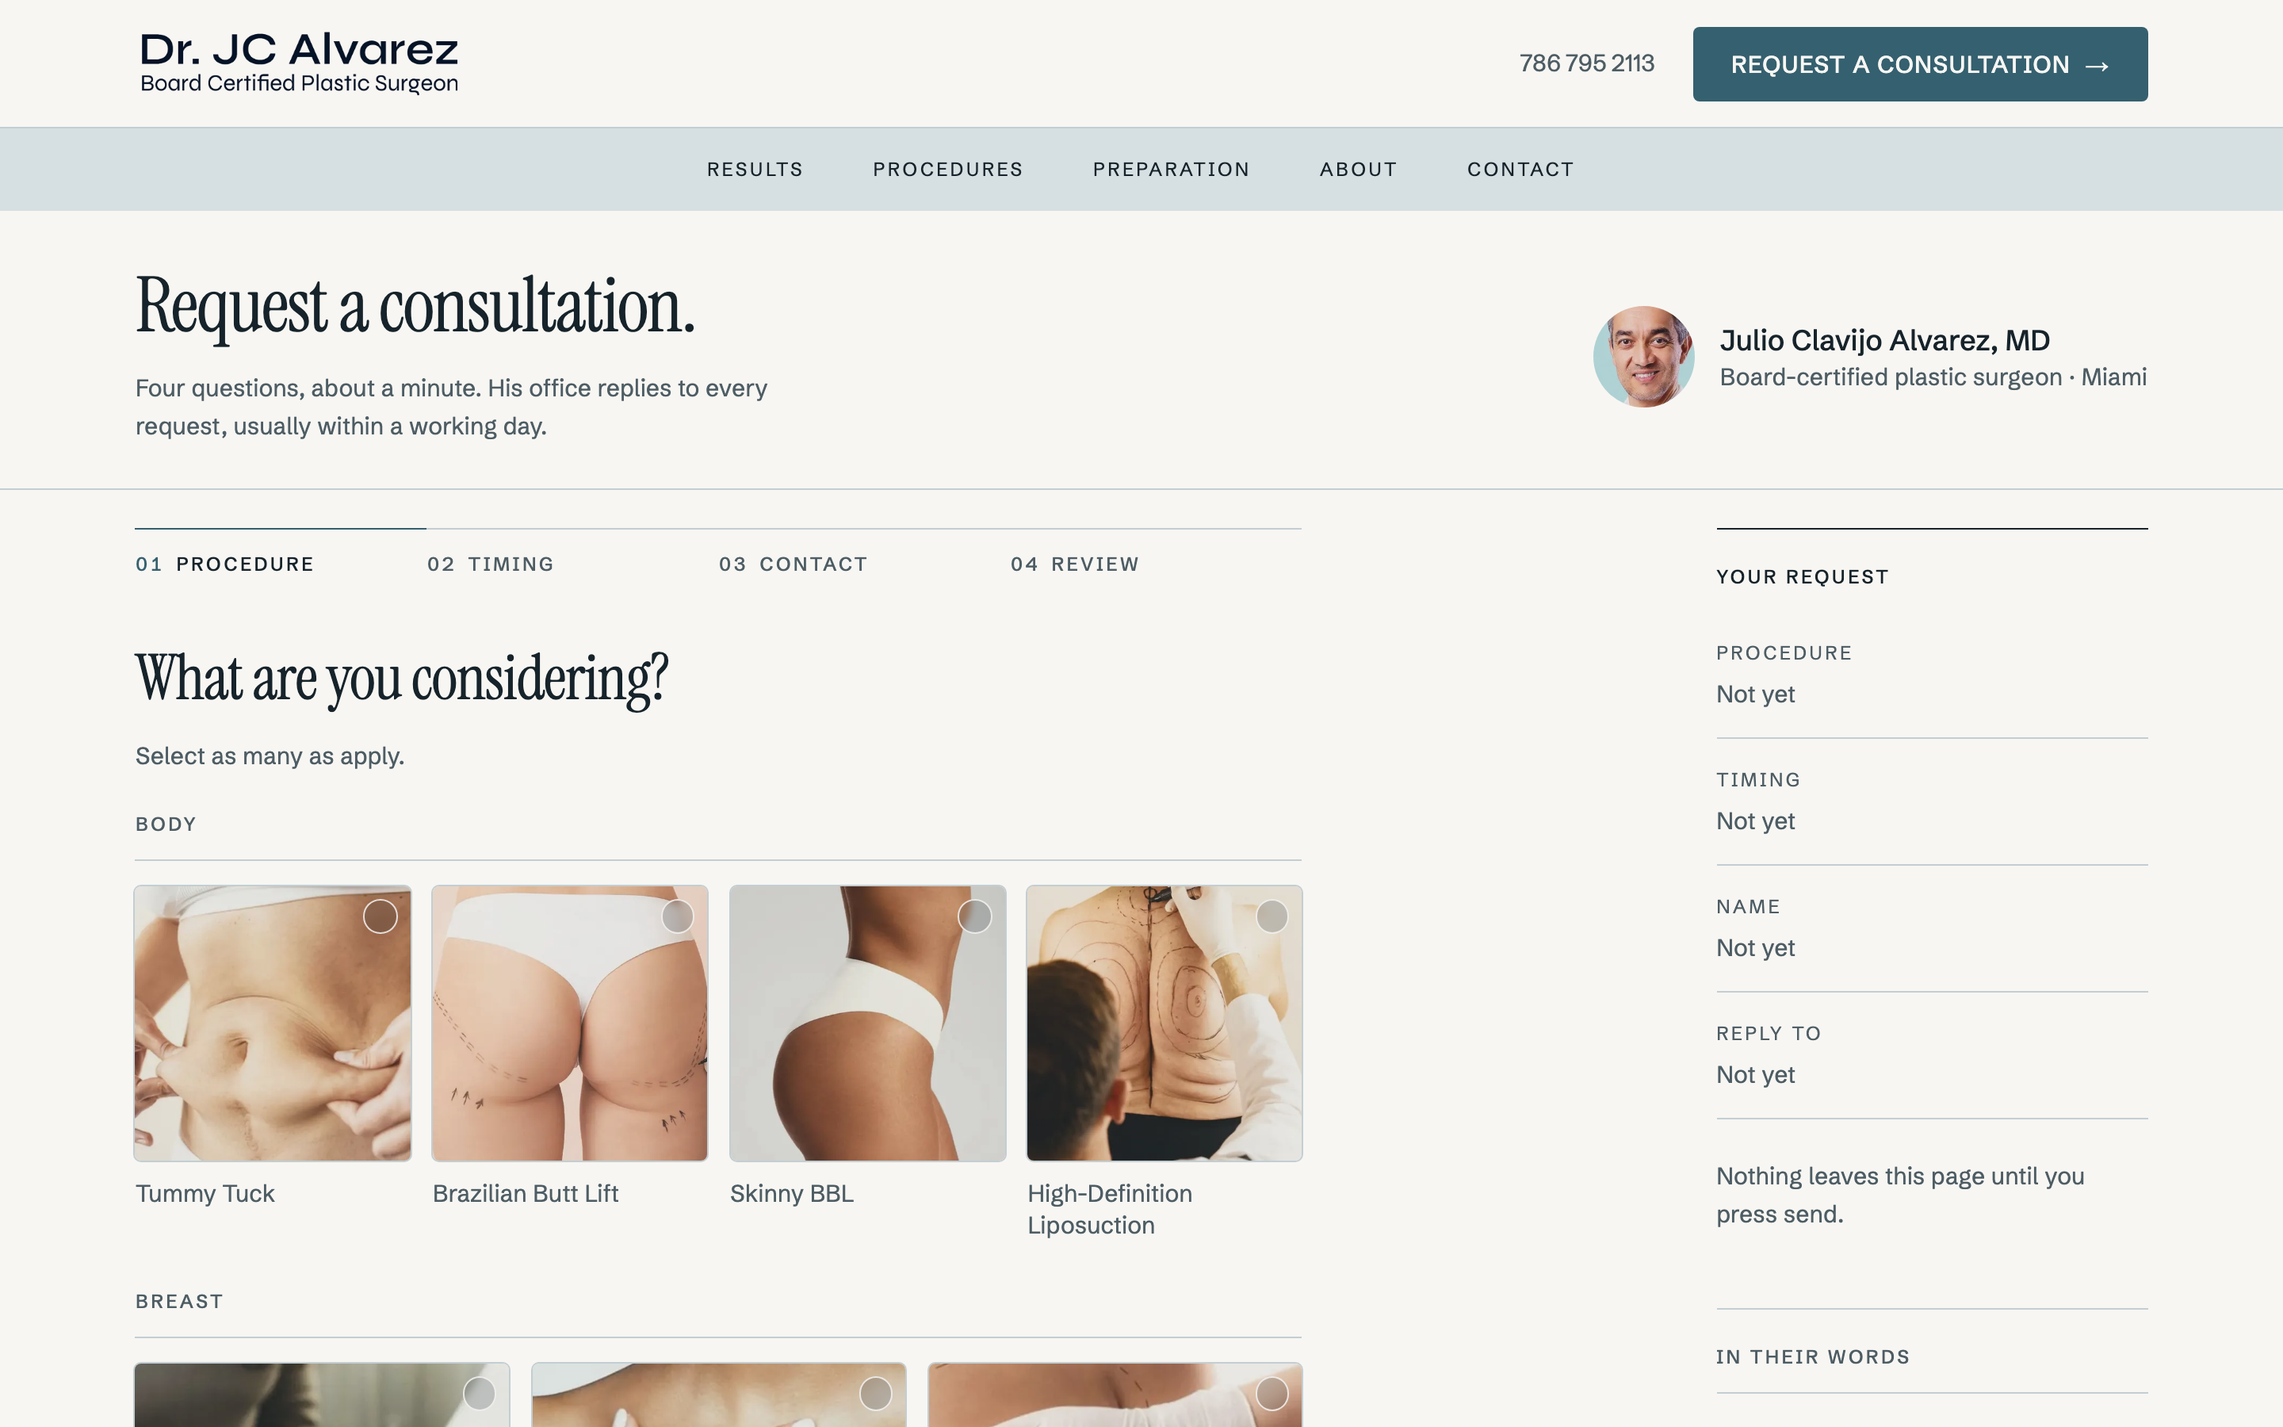
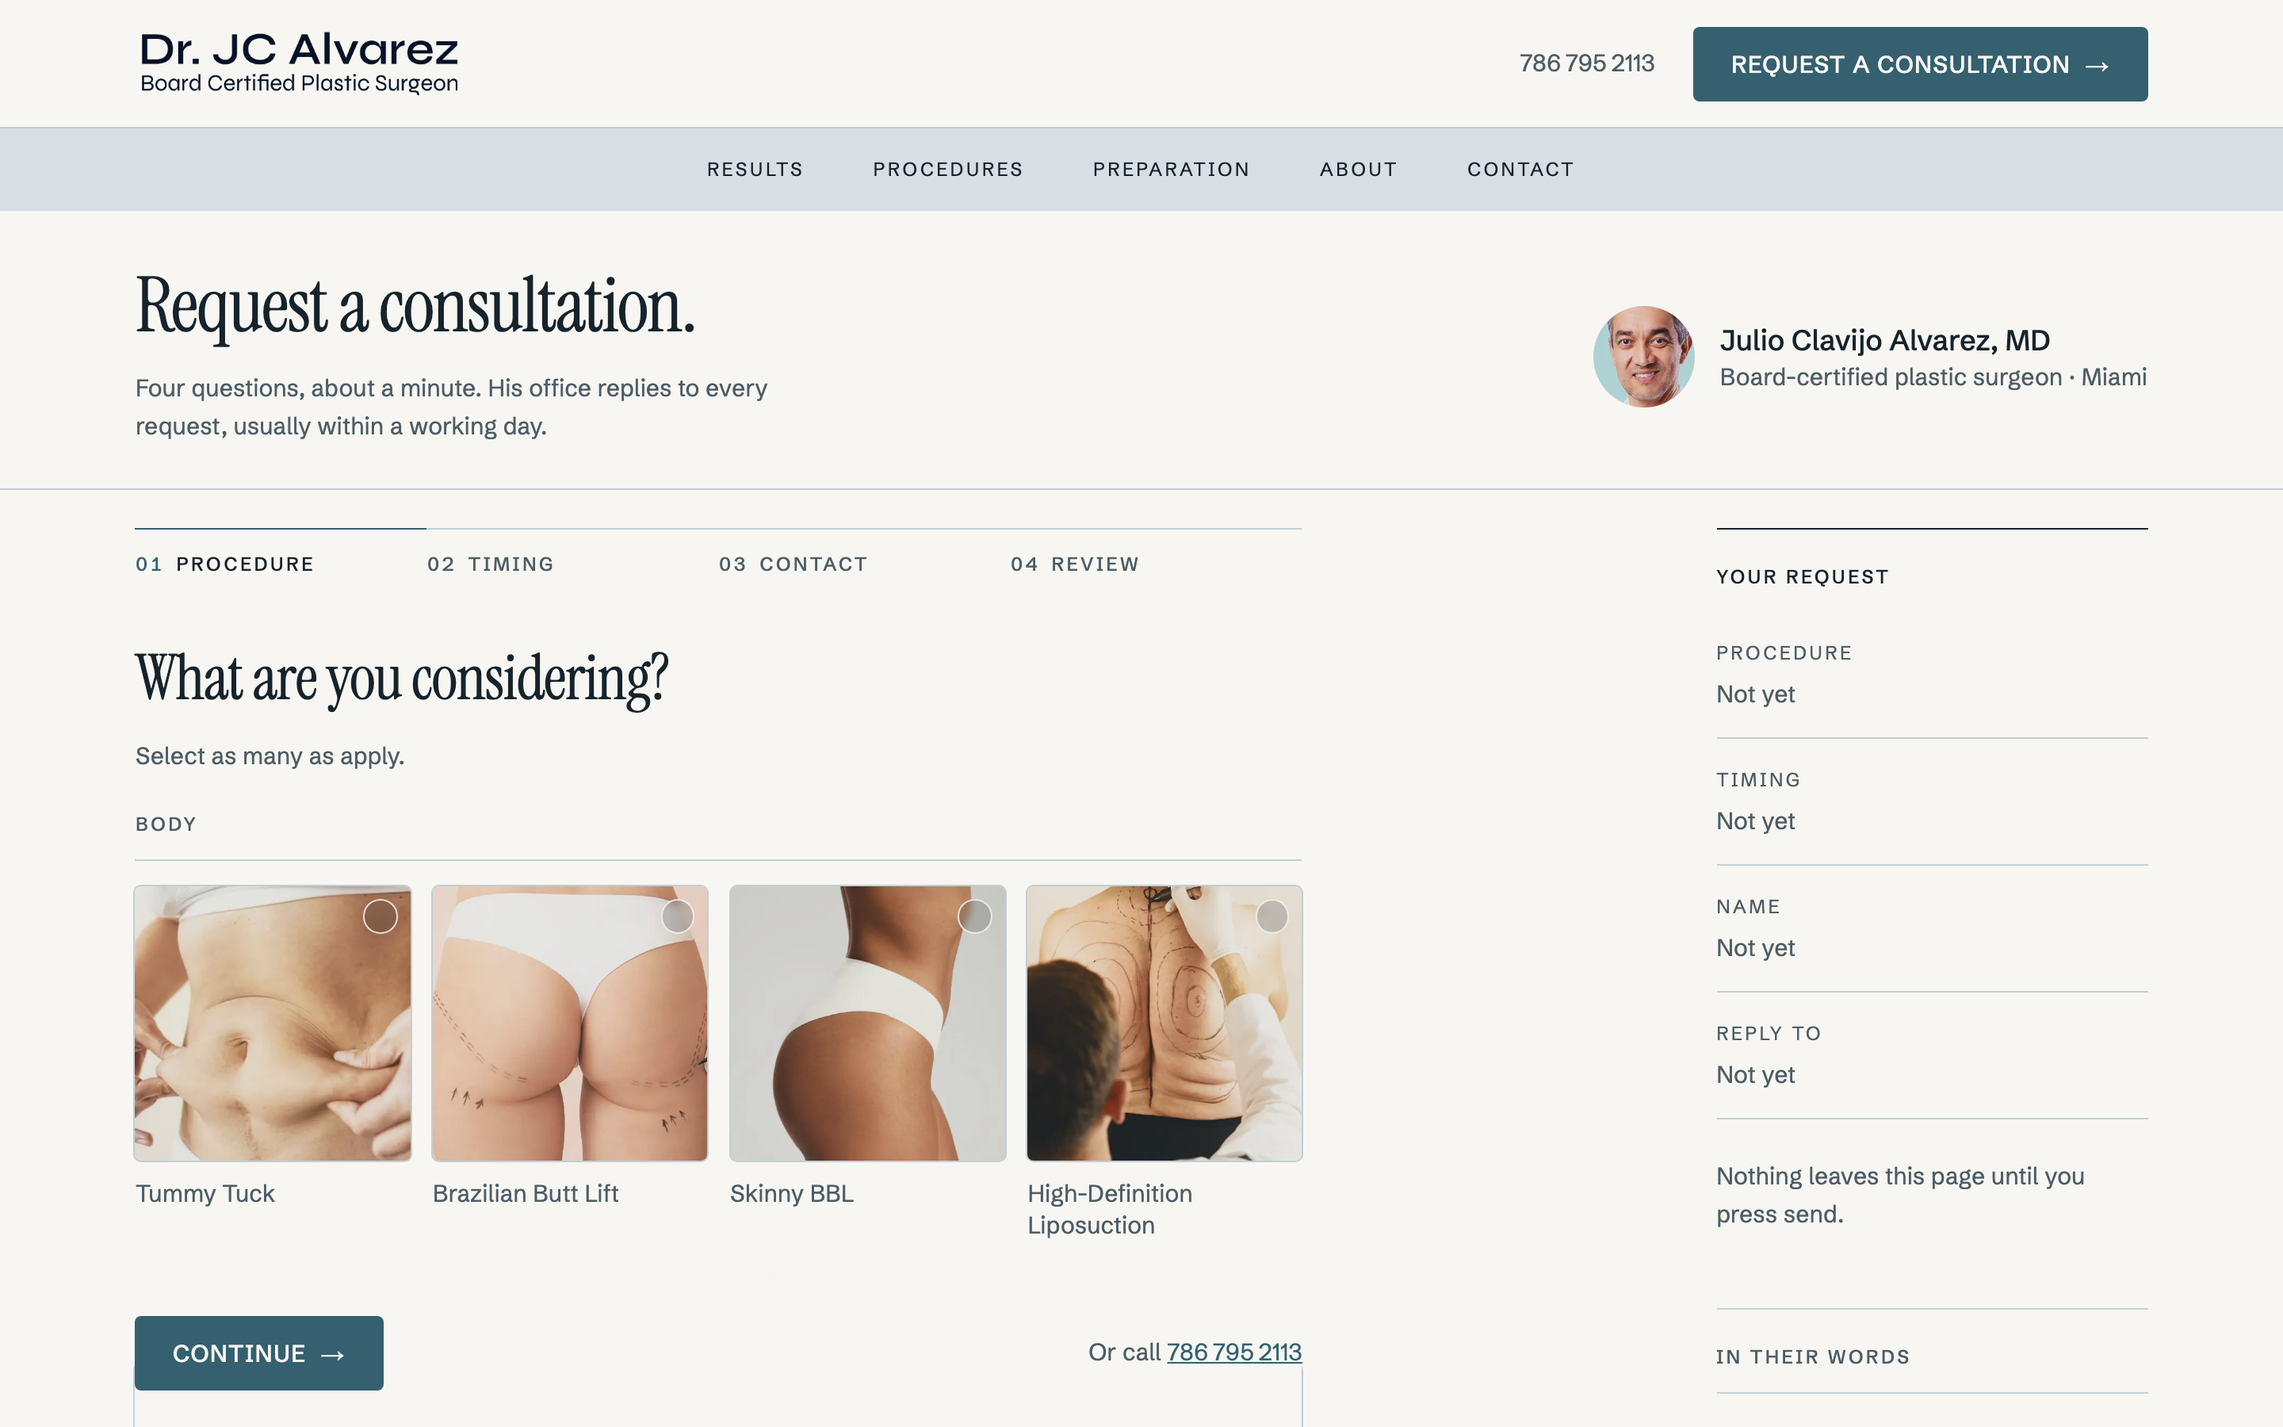
Arreglar los H1 partidos; patrones de fechas; ampliar tools/todo-es.py
El H1 de cada página de procedimiento está partido por un <br>: "Breast" /
"Augmentation". La primera mitad choca con una clave compartida — la sección
del breadcrumb "Breast" es "Senos" — así que la página mostraba un titular
que decía "Senos Augmentation". Tres páginas llevaban un H1 medio en inglés,
que es el elemento más visible de la página. Ahora el mapa de cada página
declara H1 como lista y el constructor sustituye los nodos de texto en orden.

Las etiquetas de la línea de recuperación ("Day 2", "Week 3", "3 months",
"7 - 10 days") pasan a ser reglas y no claves: once páginas escriben las
mismas etiquetas con sus propios números.

tools/todo-es.py: el vocabulario inglés ahora baja hasta in/at/to/or y las
unidades de tiempo. Sin eso, "Small incisions, hidden in creases" y
"7 - 10 days" no contenían ninguna palabra que buscara y pasaban por hechas.

Changed region(s): [[0.0312, 0.9022, 0.5938, 1.0]]

diff --git a/src/public/procedure.css b/src/public/procedure.css
@@ -1735,12 +1735,11 @@
    hard edge, and §4 bars drop shadows */
 .bnav::before{content:'';position:absolute;left:0;right:0;bottom:100%;height:1.75rem;
   background:linear-gradient(to top,var(--paper),transparent);pointer-events:none}
-/* A sticky bar can hide whatever you just tabbed to. scroll-margin on the elements is
-   NOT the fix — it only shifts where a scroll lands, and the browser does not scroll at
-   all for an element it already considers visible, overlay or not. scroll-padding on the
-   scrollport is the one that works: it shrinks the region that counts as visible, so an
-   answer under the bar is treated as off-screen and scrolled clear. Scoped to this page
-   via the class the inline head script sets. */
+/* Keeps programmatic scrolls (panel focus on step change, anchor jumps) clear of the
+   sticky bar. It does NOT fix tabbing onto an answer the bar already covers — measured,
+   both scroll-margin and scroll-padding leave that case broken, because the browser does
+   not scroll for an element it already counts as visible, overlay or not. book.js
+   corrects that one by measuring the overlap. */
 html.bookpg{scroll-padding-bottom:7.5rem}
 .btn--ghost{background:none;color:var(--ink);border:1px solid var(--rule-on-light)}
 .btn--ghost:hover{background:var(--paper-2);color:var(--ink)}

diff --git a/src/public/book.js b/src/public/book.js
@@ -167,6 +167,22 @@
     hintProcedures(); showVoice(); sync(); show(0);
   });
 
+  /* The nav bar is sticky, so an answer near the bottom of the screen can sit behind
+     it. Nothing in CSS fixes this: scroll-margin and scroll-padding both only affect
+     where a scroll lands, and the browser performs no scroll at all for an element it
+     already considers visible — being covered does not count. So measure the overlap
+     and correct it, and only while the bar is actually pinned. */
+  var bar = form.querySelector('.bnav');
+  form.addEventListener('focusin', function (e) {
+    if (!bar || !e.target.closest) return;
+    var b = bar.getBoundingClientRect();
+    if (b.bottom < window.innerHeight - 2) return;          /* bar is at rest, not pinned */
+    if (e.target.closest('.bnav')) return;                  /* the bar's own buttons */
+    var el = e.target.closest('.pcard, .bopt, .bfield, .bresume') || e.target;
+    var over = el.getBoundingClientRect().bottom - b.top;
+    if (over > 0) window.scrollBy(0, over + 12);             /* instant: no motion to opt out of */
+  });
+
   /* ---- stepping ---------------------------------------------------------- */
 
   function show(i, announce) {

diff --git a/tools/build-es.py b/tools/build-es.py
@@ -92,12 +92,42 @@ PAGES = {
 OUT = "dist-es"
 
 
-def load_map(name):
+def load_page(name):
     p = "content/es/%s.py" % name
     spec = importlib.util.spec_from_file_location("m", p)
     m = importlib.util.module_from_spec(spec)
     spec.loader.exec_module(m)
-    return m.T
+    return m
+
+
+def load_map(name):
+    return load_page(name).T
+
+
+def set_h1(html, parts):
+    """Replace the text nodes inside <h1>, in order, from the page map's H1 list.
+
+    The procedure H1s are split across a <br>: "Breast" / "Augmentation". A text
+    map cannot do this, because the first half collides with a shared key — the
+    breadcrumb section "Breast" is "Senos", so the page rendered a headline
+    reading "Senos Augmentation". Three pages were shipping a half-English H1,
+    which is the single most visible element on the page. H1 is a list so a page
+    can keep the line break where it wants it."""
+    m = re.search(r'(<h1\b[^>]*>)(.*?)(</h1>)', html, re.S)
+    if not m:
+        return html
+    it = iter(parts)
+
+    def repl(mo):
+        if not mo.group(0).strip():
+            return mo.group(0)
+        try:
+            return next(it)
+        except StopIteration:
+            return mo.group(0)
+
+    inner = re.sub(r'(?<=>)[^<>]+|\A[^<>]+', repl, m.group(2))
+    return html[:m.start(2)] + inner + html[m.end(2):]
 
 
 def swap_links(html):
@@ -228,6 +258,22 @@ def apply_patterns(html, T):
     html = re.sub(r'([A-Z][A-Za-z\- ]{2,40}), case (\d+) (?:&mdash;|—) open larger',
                   lambda m: "%s, caso %s \u2014 ver m&aacute;s grande"
                             % (T.get(m.group(1), m.group(1)), m.group(2)), html)
+    # Timeline labels and durations. Every procedure page writes its own set of
+    # these against its own numbers, so listing them as map keys means eleven
+    # near-identical blocks that drift. Anchored on >...< so only real text nodes
+    # are touched.
+    html = re.sub(r'>(\s*)Day (\d+)(\s*)<', r'>\1D&iacute;a \2\3<', html)
+    html = re.sub(r'>(\s*)Week (\d+)(\s*)<', r'>\1Semana \2\3<', html)
+    html = re.sub(r'>(\s*)Month (\d+)(\s*)<', r'>\1Mes \2\3<', html)
+    html = re.sub(r'>(\s*)(\d+)\s*&ndash;\s*(\d+) days(\s*)<',
+                  r'>\1\2 a \3 d&iacute;as\4<', html)
+    html = re.sub(r'>(\s*)(\d+)\s*&ndash;\s*(\d+) weeks(\s*)<',
+                  r'>\1\2 a \3 semanas\4<', html)
+    for en_u, es_u in (("months", "meses"), ("month", "mes"), ("weeks", "semanas"),
+                       ("week", "semana"), ("days", "d&iacute;as"), ("day", "d&iacute;a")):
+        html = re.sub(r'>(\s*)(\d+) %s(\s*)<' % en_u,
+                      r'>\1\2 %s\3<' % es_u, html)
+
     # The case counter, "01 of 09". Numeric, so it cannot be a map key.
     html = re.sub(r'>(\d{2}) of (\d{2})<', r'>\1 de \2<', html)
     # Any remaining "Play:" prefix — the title after it is a real YouTube title and
@@ -321,6 +367,10 @@ def main():
         # source, and it fails silently — the page just stays English in that one
         # spot. Only reported for pages that have their own map; the shared map is
         # deliberately larger than any single page needs.
+        if os.path.exists(mapfile):
+            h1 = getattr(load_page(name), "H1", None)
+            if h1:
+                html = set_h1(html, h1)
         page_keys = set(load_map(name)) if os.path.exists(mapfile) else set()
         stale = sorted(k for k in UNUSED if k in page_keys)
         if os.path.exists(mapfile):

diff --git a/content/es/gluteos.py b/content/es/gluteos.py
@@ -24,6 +24,9 @@ Volumes stay in cc and weights in the units the source uses. "300 a 1.000 cc" us
 the Spanish thousands separator; the figure itself is unchanged.
 """
 
+# The H1 is split across a <br>; see set_h1 in tools/build-es.py.
+H1 = ["Aumento de", "gl&uacute;teos"]
+
 T = {
 # ---- head ----
 "Brazilian Butt Lift (Gluteal Fat Transfer) in Miami — Julio Clavijo Alvarez, MD":
@@ -32,6 +35,7 @@ T = {
   "Aumento de glúteos con el Dr. Julio Clavijo Alvarez, cirujano plástico certificado en Miami. Transferencia de grasa, no implantes: cómo se hace, quién es candidata, la recuperación mes a mes, y la pregunta de seguridad dicha con claridad.",
 
 # ---- hero ----
+"Gluteal fat transfer": "Transferencia de grasa glútea",
 "Your own fat, taken from where you do not want it and placed where you do. No implant goes in.":
   "Su propia grasa, tomada de donde no la quiere y colocada donde sí. No entra ningún implante.",
 
@@ -150,6 +154,7 @@ T = {
 # ---- risks ----
 "The specific risk of this operation: fat entering the bloodstream through a vein. Rare, serious, and the reason placement above the muscle is not a stylistic preference.":
   "El riesgo específico de esta operación: que la grasa entre al torrente sanguíneo por una vena. Poco frecuente, grave, y la razón por la que colocarla por encima del músculo no es una preferencia de estilo.",
+"An asymmetric result": "Un resultado asimétrico",
 "Not all of the fat survives": "No toda la grasa sobrevive",
 "A proportion of every graft is reabsorbed in the first months. It is expected and planned for, not a complication.":
   "Una parte de todo injerto se reabsorbe en los primeros meses. Está previsto y se planifica; no es una complicación.",

diff --git a/tools/todo-es.py b/tools/todo-es.py
@@ -20,7 +20,9 @@ EN = re.compile(r'\b(the|and|your|you|with|that|before|after|from|what|does|do|d
                 r'only|every|most|more|less|other|same|own|both|each|any|all|need|'
                 r'as|well|too|first|last|long|much|many|my|me|we|us|our|be|am|so|'
                 r'if|but|out|up|down|over|under|again|still|just|like|make|makes|'
-                r'take|takes|get|gets|go|goes|say|says|know|see|look|looks)\b', re.I)
+                r'take|takes|get|gets|go|goes|say|says|know|see|look|looks|in|at|to|an|'
+                r'or|by|its|day|days|week|weeks|month|months|hour|hours|year|'
+                r'years|left|right|under|above|through|around|between|without)\b', re.I)
 ES = re.compile(r'\b(el|la|los|las|un|una|unos|unas|de|del|al|que|se|con|por|para|'
                 r'su|sus|como|pero|cuando|donde|porque|desde|hasta|sobre|entre|'
                 r'este|esta|esto|eso|ese|esa|lo|le|les|ya|muy|mas|sin|antes|'
@@ -31,6 +33,11 @@ ACC = re.compile(r'[\u00e1\u00e9\u00ed\u00f3\u00fa\u00fc\u00f1\u00bf\u00a1\u00ab
 
 
 def english(t):
+    """Compare vocabularies rather than look for accents. Accents alone miss
+    plenty of finished Spanish ("No se trata de"), and short English fragments
+    ("Small incisions, hidden in creases", "7 - 10 days") carry none of the long
+    function words — which is why the English list reaches down to in/at/to/or
+    and to the units a recovery timeline is written in."""
     if ACC.search(t):
         return False
     en = len(EN.findall(t))

diff --git a/content/es/aumento-senos.py b/content/es/aumento-senos.py
@@ -24,6 +24,9 @@ clinical but standard, and what a Spanish-speaking patient will hear in the room
 page's whole argument is that the letter means nothing.
 """
 
+# The H1 is split across a <br>; see set_h1 in tools/build-es.py.
+H1 = ["Aumento de", "senos"]
+
 T = {
 # ---- head ----
 "Breast Augmentation in Miami — Julio Clavijo Alvarez, MD":
@@ -127,6 +130,15 @@ T = {
 "Low-impact training can usually begin. Nothing loading the chest.":
   "Normalmente se puede empezar entrenamiento de bajo impacto. Nada que cargue el pecho.",
 "With implants": "Con implantes",
+"Augmentation or lift": "Aumento o levantamiento",
+"Light walking starts immediately, to keep circulation moving.":
+  "Caminar suave desde el primer momento, para mantener la circulación.",
+"Full workouts, including chest, resume around six to eight weeks.":
+  "El entrenamiento completo, incluido el pecho, se retoma entre las seis y las ocho semanas.",
+"Rippling or a visible edge": "Ondulado o un borde visible",
+"Changes in nipple sensation": "Cambios en la sensibilidad del pezón",
+"Implant type &mdash; silicone or saline, smooth or textured":
+  "Tipo de implante &mdash; silicona o solución salina, liso o texturizado",
 "Can I still breastfeed?": "¿Puedo seguir amamantando?",
 "Do I need a breast lift as well as an implant?":
   "¿Necesito un levantamiento de senos además del implante?",

diff --git a/docs/DECISIONS.md b/docs/DECISIONS.md
@@ -3404,3 +3404,48 @@ deep links, keyboard advance and the no-JS path all still pass `tools/bookfn.mjs
 
 **New tool: `tools/foldcheck.mjs`** — run it after any change to the top of a form page.
 "The form is above the fold" is the kind of claim that is easy to believe and cheap to check.
+
+---
+
+## D-076 — The step button is sticky, and the accessibility fix for it is not CSS
+
+Step 01 is eleven photographs. Even with the form pulled above the fold (D-075), the
+button that leaves the step sat about **1720px down** — so the only way to continue was
+to scroll past every option you had already rejected. `.bnav` is now
+`position:sticky; bottom:0`.
+
+It stays in flow at the end of the form rather than being fixed, which matters three ways:
+it releases naturally at the bottom instead of hovering over the end of the page, it never
+covers the last answer at rest, and it stays after the panels in the DOM so tab order is
+unchanged. A short paper gradient sits above it so content passes under the bar rather
+than stopping at a hard edge — §4 bars drop shadows. On a phone the "Or call" line is
+dropped from the bar to keep it one row; the number is already in the header.
+
+Measured with `tools/stickynav.mjs` at five scroll depths on the tallest step: the button
+is on screen at **0%, 25%, 50%, 75% and 100%** at 1440×900, 1280×720 and 390×844.
+
+**The part worth writing down: two plausible CSS fixes for the overlap both failed, and
+only measuring caught it.** A sticky bar can cover the answer you just tabbed to.
+
+- `scroll-margin-bottom` on the options — **3 of 10 cards still landed behind the bar on
+  desktop, 5 of 10 on a phone.** It only shifts where a scroll lands; it cannot cause one.
+- `scroll-padding-bottom` on the scrollport — **still 4 of 10 on both.** Chrome did not
+  apply it to sequential focus navigation here.
+
+Both fail for the same reason: **the browser performs no scroll at all for an element it
+already considers visible, and being covered by an overlay does not make it invisible.**
+So `book.js` measures the overlap on `focusin` and corrects it, only while the bar is
+actually pinned, and skips the bar's own buttons. The scroll is instant, so there is no
+motion to opt out of. After: **0 of 10 hidden at both viewports.**
+
+`html.bookpg{scroll-padding-bottom:7.5rem}` is kept — it does help *programmatic* scrolls,
+the panel focus on step change and anchor jumps — but its comment now says plainly what it
+does not do, so nobody deletes the JS thinking the CSS covers it.
+
+Verified: axe **0 violations at 1440, 390 and 320 across all four steps**; CLS 0.0004; no
+horizontal overflow at 320px; fold positions unchanged from D-075; save-and-resume, deep
+links, contextual proof, keyboard advance and the no-JS path all still pass. With
+JavaScript off the bar is still sticky and the single submit still works.
+
+**New tool: `tools/stickynav.mjs`** — checks both halves: the button stays on screen while
+scrolling, and nothing ends up behind it when tabbing.
